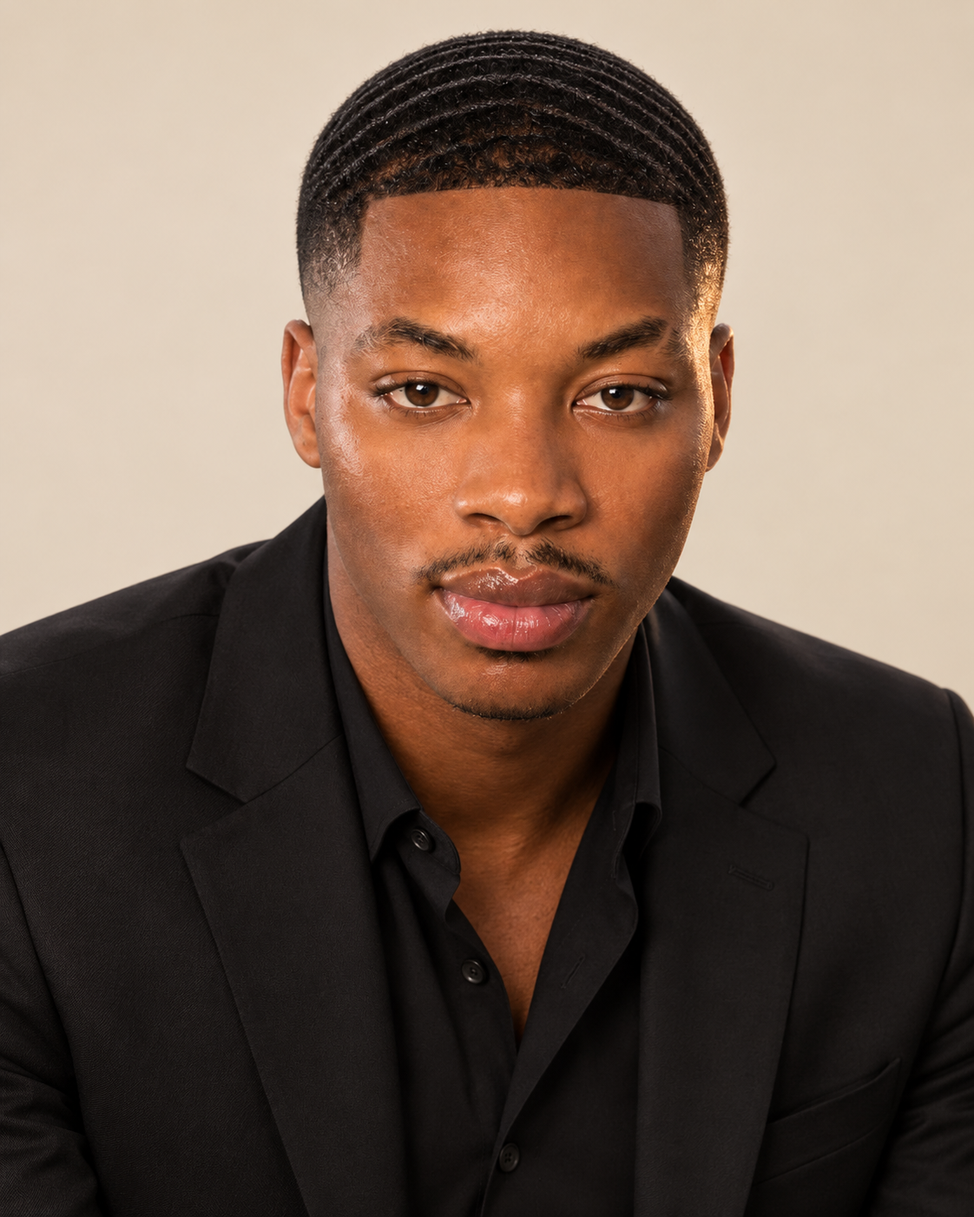
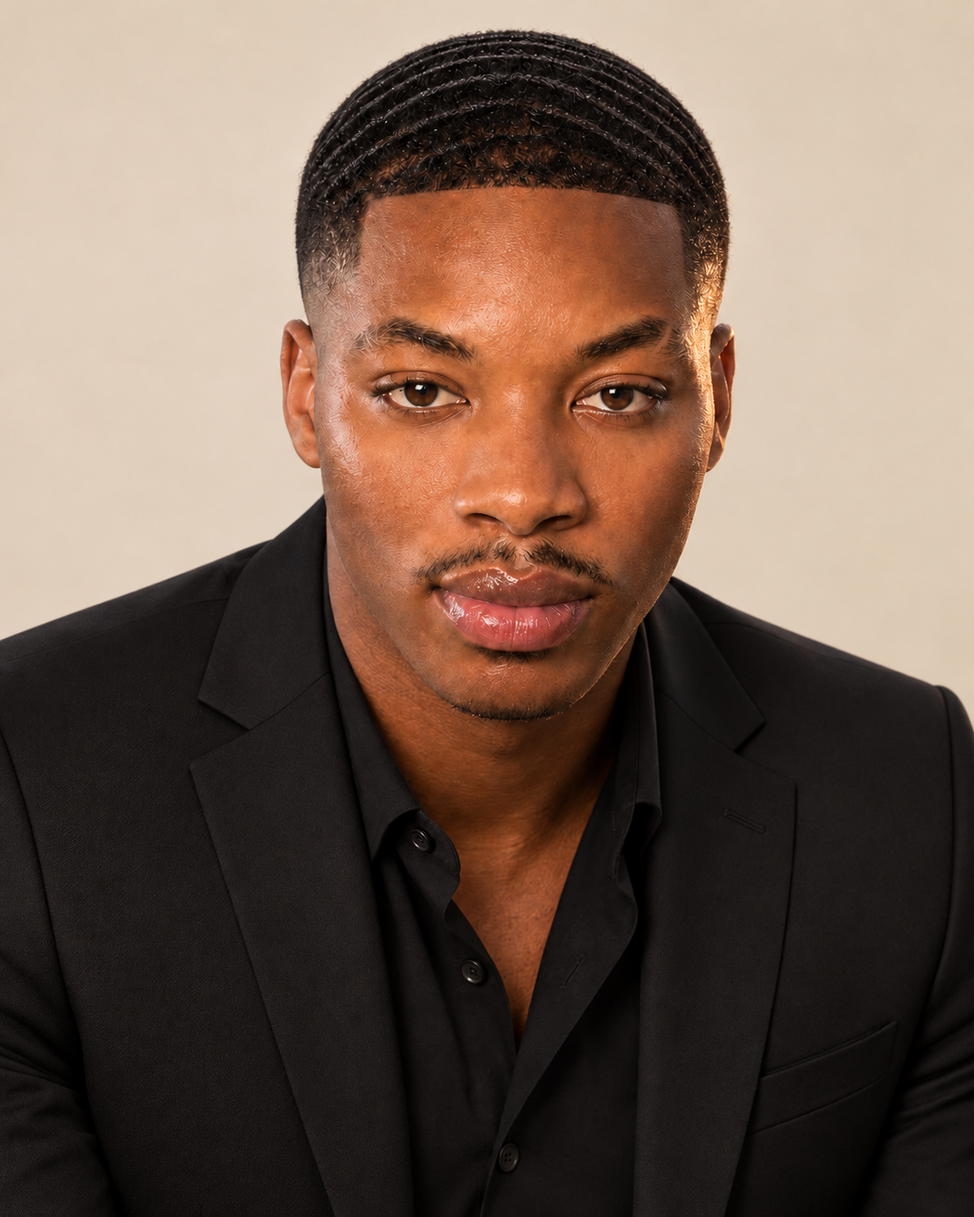
Refine founder portrait with tailored black suit

diff --git a/about.html b/about.html
@@ -1,1 +1,1 @@
-<!doctype html><html lang="en"><head><meta charset="utf-8"><meta name="viewport" content="width=device-width,initial-scale=1"><title>Team and founder | DivineGuard IT Services</title><meta name="description" content="DivineGuard IT Services LLC. IT support, software development, AI workflows and technology training. North Las Vegas, Nevada."><meta name="theme-color" content="#701b2b"><link rel="stylesheet" href="css/style.css?v=20261028-help"><script defer src="js/main.js?v=20261028-creator"></script></head><body><a class="skip" href="#main">Skip to content</a><header><a class="brand" href="index.html"><svg viewBox="0 0 64 64" aria-hidden="true"><path d="M32 4 56 12v18c0 16-10 26-24 30C18 56 8 46 8 30V12Z" fill="#701b2b" stroke="#bd9650" stroke-width="3"/><path d="m22 32 7 7 14-15" fill="none" stroke="#f4d69a" stroke-width="4" stroke-linecap="round" stroke-linejoin="round"/></svg><span>DIVINEGUARD<small>IT SERVICES LLC</small></span></a><button class="nav-toggle" aria-expanded="false" aria-controls="nav">Menu</button><nav id="nav" class="nav-links" aria-label="Main"><a href="index.html" >Home</a><a href="services.html" >Services</a><a href="training.html">IT training</a><a href="creator-media.html">Creator media</a><a href="partners.html">Partners</a><a href="apps.html">Apps</a><a href="pricing.html">Pricing</a><a href="about.html" aria-current="page">Our team</a><a href="contact.html" >Contact</a><a href="nationwide.html">Nationwide &amp; government</a></nav><a class="button small" href="contact.html">Discuss a project ↗</a></header><main id="main"><section class="wrap page-intro"><span class="eyebrow">OUR TEAM</span><h1>People who connect<br><em>the details.</em></h1><p class="lead">DivineGuard IT Services LLC is a local North Las Vegas GovTech business focused on IT services, software and AI development, and education/training programs. We welcome business, local-government, state and federal opportunities aligned with our capabilities.</p></section><section class="wrap team-grid" aria-label="Meet the DivineGuard team"><article class="person" id="aaron"><div class="team-photo"><img src="images/aaron-frazier-black-suit-v2.png" alt="Aaron Frazier Jr." width="360" height="420" loading="lazy"></div><div class="team-card-content"><h2>Aaron Frazier Jr.</h2><p class="role">Founder &amp; Principal Software Engineer</p><p class="team-focus">Full Stack Development | AI Engineering | Cybersecurity</p><h3>Experience &amp; responsibilities</h3><p>Remote IT support, Microsoft 365 assistance, software and API projects, technical troubleshooting, documentation, testing and project coordination.</p><h3>Skills &amp; focus</h3><p>Python • JavaScript • Node.js • REST APIs • Cloud • Software Architecture • Cybersecurity • GovTech • Remote IT Support • Microsoft 365 • Troubleshooting • Technical Documentation • Project Coordination</p><h3>Education &amp; development</h3><p>Associate of Science with honors, Southern New Hampshire University (SNHU). Bachelor of Science studies at SNHU; completion with honors anticipated in 2027.</p><p>Google IT Support Certificate • Google Cybersecurity Certificate. Fullstack Academy Software Engineering and AI Developer certificates are in progress. Planned study: Master of Science in Computer Science at SNHU, beginning in 2028. Currently involved with the UNLV Cyber Clinic and Nevada Help Desk Academy.</p><a class="text-link" href="mailto:AaronFrazier@DGITServices.onmicrosoft.com">Email Aaron ↗</a></div></article><article class="person" id="cheyenne-card"><div class="team-photo"><img src="images/cheyenne-quann-profile.png?v=20261031" alt="Cheyenne Quann" width="360" height="450" loading="lazy"></div><div class="team-card-content"><h2>Cheyenne Quann</h2><p class="role">Business Analyst</p><p class="team-focus">Business analysis | IT operations | Reporting</p><h3>Experience &amp; responsibilities</h3><p>More than four years in IT support and systems operations across healthcare, data centers and business services.</p><h3>Skills &amp; focus</h3><p>SQL • Tableau • Power BI • Excel • Salesforce reporting • Active Directory • Azure AD • Intune</p><h3>Education &amp; development</h3><p>BA in Political Science, UC Santa Barbara; Business Intelligence Analytics Certificate, TripleTen; Full-Stack Data Science Certificate, Coding Dojo.</p><a class="text-link" href="mailto:Cheyenne.Quann@DGITServices.onmicrosoft.com">Email Cheyenne ↗</a></div></article><article class="person" id="marcetta"><div class="team-photo"><img src="images/marcetta-frazier.png" alt="Professional portrait of Marcetta Frazier" width="1086" height="1448" loading="lazy"></div><div class="team-card-content"><h2>Marcetta Frazier</h2><p class="role">Program &amp; Logistics Manager</p><p class="team-focus">Logistics leadership | Program management | Operational coordination | Team development</p><h3>Professional profile</h3><p>Marcetta is a business owner and logistics professional with more than 20 years of entrepreneurial and operational experience, including independent FedEx route ownership and leadership experience with Amazon. At DivineGuard, she leads logistics and program coordination—organizing schedules and resources, facilitating team communication, tracking milestones, and supporting accountable, timely follow-through.</p><h3>Core competencies</h3><p>Business ownership and operations • Logistics and distribution • Program coordination • Team leadership • Workforce scheduling • Resource planning • Documentation and reporting • Milestone tracking • Operational efficiency • Strategic follow-through</p><a class="button small" href="contact.html?service=logistics">Discuss program coordination ↗</a><a class="text-link" href="mailto:MarcettaFrazier@DGITServices.onmicrosoft.com">Email Marcetta ↗</a></div></article><article class="person" id="kyra-card"><div class="team-photo"><img src="images/kyra-frazier-beige.png" alt="Kyra Frazier" width="360" height="420" loading="lazy"></div><div class="team-card-content"><h2>Kyra Frazier</h2><p class="role">Administrative Coordinator</p><p class="team-focus">Administration | Client care | Customer service</p><h3>Experience &amp; responsibilities</h3><p>Several years of medical client-care and customer-service experience, supporting organized and respectful service.</p><h3>Skills &amp; focus</h3><p>Scheduling • Client communication • Documentation • Customer service • Phlebotomy</p><h3>Education &amp; development</h3><p>Certified Nursing Assistant (CNA) credential; background in phlebotomy.</p><a class="text-link" href="#kyra">Read Kyra’s background →</a></div></article></section><section class="wrap section profile-detail" id="founder"><div class="split"><div><span class="eyebrow">FOUNDER PROFILE</span><h2>Aaron Frazier Jr.</h2><p class="role">Founder &amp; Principal Software Engineer</p><div class="profile-photo"><img src="images/aaron-frazier-black-suit-v2.png" alt="Aaron Frazier Jr." width="540" height="640" loading="lazy"></div></div><div class="bio"><h3>Turning needs into useful software</h3><p>Aaron founded DivineGuard IT Services LLC to connect IT support, software development, AI engineering and cybersecurity. He leads technical direction from the first requirements conversation through implementation, testing and handoff—keeping the work grounded in the people and operations it serves.</p><h3>Engineering with clear responsibilities</h3><p>His focus spans full stack development, Python, JavaScript, Node.js, REST APIs, cloud services and software architecture. GovCon Pulse and Gray Fox AI are current development initiatives. He brings IT consulting, enterprise support and deployment experience to decisions about reliability, access, documentation and delivery scope.</p><h3>Remote support and service coordination</h3><p>Aaron’s service focus includes remote IT troubleshooting, Microsoft 365 assistance, ticket and escalation coordination, technical documentation and user support. For projects involving software vendors and onsite specialists, he works to define responsibilities, coordinate handoffs and keep clients informed. Support hours, staffing and response commitments are agreed for each engagement.</p><h3>Education and professional development</h3><p>Aaron earned an Associate of Science with honors from Southern New Hampshire University (SNHU) and is continuing Bachelor of Science studies there, with completion with honors anticipated in 2027.</p><p>His credentials include the Google IT Support Certificate and Google Cybersecurity Certificate. His Fullstack Academy Software Engineering and AI Developer certificates are in progress. He plans to begin a Master of Science in Computer Science at SNHU in 2028. He is currently involved with the UNLV Cyber Clinic and Nevada Help Desk Academy.</p><h3>Academic recognition</h3><p>Seven Honor Roll recognitions, two Dean’s List recognitions and one President’s List recognition.</p><h3>Leadership, learning and community</h3><p>Aaron served as vice president of Batteries Included at Legacy High School for two years.</p><p>Aaron coordinates priorities, works with specialist providers and makes responsibilities clear. His continued learning includes cybersecurity study at SNHU and participation and training with the UNLV Cyber Clinic. He also serves as an NSLS committee chair. Faith and more than 22 years in his church community shape his approach to service, relationships and accountability.</p><a class="text-link" href="experience.html">Career and project overview →</a></div></div></section><section class="wrap section profile-detail" id="cheyenne"><div class="split"><div><span class="eyebrow">BUSINESS ANALYST PROFILE</span><h2>Cheyenne Quann</h2><p class="role">Business Analyst</p><div class="profile-photo"><img src="images/cheyenne-quann-beige.png" alt="Cheyenne Quann, Business Analyst" width="540" height="640" loading="lazy"></div></div><div class="bio"><p>Cheyenne is an IT and business operations professional with more than four years of experience in IT support and systems operations across healthcare, data centers, technology and business services. His work connects operational data, access management and end-user support with practical business insights.</p><h3>Experience</h3><p>At Anderson Business Advisors, Cheyenne served as an Operations &amp; Access Control Coordinator in 2025–2026, supporting access analysis, data quality reviews, Salesforce queue monitoring, reporting and process improvement. His IT Support Technician role at Switch in 2025–2026 included Active Directory and Azure AD, Microsoft Intune, endpoint management and network troubleshooting.</p><p>From 2023–2025, his Desktop Support / TechOps Monitor work at Oak Street Health included systems and database monitoring, incident trend analysis, operations reporting, remote support and escalation. Additional roles include Robotics Field Specialist at Phantom Auto, Operations Support Technician at Coin Cloud Inc., and Desktop Support Analyst at Robert Half International.</p><h3>Skills</h3><p>Business intelligence and data analytics; SQL; Tableau and Power BI; Excel and Google Sheets; data validation; Salesforce reporting support; Active Directory and Azure AD; Intune; IT operations; workflow optimization; incident monitoring; and TCP/IP, DNS, DHCP and SSH troubleshooting.</p><h3>Education</h3><p>Bachelor of Arts in Political Science, University of California, Santa Barbara. Business Intelligence Analytics Certificate, TripleTen, with focus areas in Excel, Tableau, Power BI and SQL. Full-Stack Data Science Certificate, Coding Dojo, with focus areas in Python and SQL.</p></div></div></section><section class="wrap section profile-detail" id="marcetta-profile"><div class="split"><div><span class="eyebrow">PROGRAM &amp; LOGISTICS PROFILE</span><h2>Marcetta Frazier</h2><p class="role">Program &amp; Logistics Manager</p><div class="profile-photo"><img src="images/marcetta-frazier.png" alt="Professional portrait of Marcetta Frazier" width="1086" height="1448" loading="lazy"></div></div><div class="bio"><h3>Logistics leadership at DivineGuard</h3><p>Marcetta oversees DivineGuard’s logistics and program coordination. She leads the coordination of schedules, resources, team communication and follow-through, keeping delivery needs and program milestones organized.</p><h3>Business ownership and operations background</h3><p>Marcetta brings more than 20 years running her own business, including FedEx route ownership and Amazon leadership experience. Her background informs her practical approach to logistics, business operations, team leadership and day-to-day coordination.</p><h3>Program and delivery coordination</h3><p>Her responsibilities include organizing timelines, coordinating resource needs and delivery windows, tracking milestones, maintaining documentation and communicating next steps across the people supporting each program. Staffing, transportation and third-party delivery commitments are confirmed for each engagement.</p><h3>Skills and focus</h3><p>Business ownership, logistics, team leadership, organized delivery and clear communication across the people supporting each program.</p><a class="button" href="contact.html?service=logistics">Discuss program coordination ↗</a></div></div></section><section class="wrap section profile-detail" id="kyra"><div class="split"><div><span class="eyebrow">ADMINISTRATIVE COORDINATOR PROFILE</span><h2>Kyra Frazier</h2><p class="role">Administrative Coordinator</p><div class="profile-photo"><img src="images/kyra-frazier-beige.png" alt="Professional portrait of Kyra Frazier" width="540" height="640" loading="lazy"></div></div><div><h3>Medical and customer-service background</h3><p>Kyra brings several years of experience in the medical field, helping care for clients across medical-center settings. Her background includes a Certified Nursing Assistant (CNA) credential, phlebotomy experience and years of customer-service work.</p><h3>Administrative role</h3><p>As DivineGuard’s Administrative Coordinator, Kyra’s role focuses on scheduling, client communication, documentation and day-to-day administrative organization. Her client-care background informs a people-focused approach to supporting clients and coordinating follow-up.</p><h3>Approach to the work</h3><p>Her focus at DivineGuard is clear communication, respectful service and organized follow-through, helping clients understand next steps and keeping administrative details moving.</p></div></div></section><section class="wrap section split"><div><span class="eyebrow">BEYOND THE BUSINESS</span><h2>Technology.<br>Creativity. Community.</h2></div><div><h3>Access Granted</h3><p>Aaron’s technology channel brings his interest in software, AI, cybersecurity and product exploration into a creator setting.</p><a class="text-link" href="https://www.youtube.com/@AccessGranted-26" target="_blank" rel="noopener noreferrer">Visit Access Granted ↗</a><h3 style="margin-top:35px">Checkpoint Gaming</h3><p>Aaron’s second main YouTube channel centers on gaming and his creative interests beyond his work at DivineGuard.</p><a class="text-link" href="https://www.youtube.com/@checkpoint-e3" target="_blank" rel="noopener noreferrer">Visit Checkpoint Gaming ↗</a></div></section><section class="wrap section split"><div><span class="eyebrow">WHAT GUIDES US</span><h2>Useful work.<br>Honest expectations.</h2></div><div><h3>Document the work</h3><p>Keep requirements, decisions, test results and handoffs understandable.</p><h3>Respect the boundaries</h3><p>Use authorized access and connect specialist work to qualified people.</p><h3>Keep learning</h3><p>Translate lessons from real projects into clearer processes and practical instruction.</p></div></section><section class="cta wrap"><span class="eyebrow">LET’S DEFINE THE NEXT STEP</span><h2>Bring us the problem.<br>We’ll work through the scope.</h2><a class="button" href="contact.html">Tell us what you need ↗</a></section><section class="wrap section" id="networks"><span class="eyebrow">NETWORKS &amp; PROCUREMENT CONNECTIONS</span><h2>Connected through<br>learning and opportunity.</h2><div class="split"><div><h3>Community and advisory connections</h3><p>Aaron participates in membership and training at the UNLV Cyber Clinic. DivineGuard has an advisory contact with Nevada APEX and workforce connections involving EmployNV, with discussions involving CSN, City of Las Vegas and Westside Education and Training Center initiatives.</p><p>Program roles, formal agreements and delivery commitments are confirmed individually. These connections do not imply institutional endorsement.</p></div><div><h3>Procurement access</h3><p>DivineGuard reports NGEM supplier registration; Nevada higher-education supplier registration is under review. Registration supports opportunity access and notifications; eligibility is assessed for each pursuit.</p><p><a href="https://www.ngemnv.com/" target="_blank" rel="noopener noreferrer">NGEM ↗</a> · <a href="https://suppliers.nevada.edu/default.aspx" target="_blank" rel="noopener noreferrer">Nevada higher-education suppliers ↗</a></p><p>Specialist teaming arrangements are developed for each requirement. No blanket partnership with all Nevada colleges or all government procurement systems is claimed.</p></div></div></section></main><footer><div class="footer-top"><div><a class="brand" href="index.html"><svg viewBox="0 0 64 64" aria-hidden="true"><path d="M32 4 56 12v18c0 16-10 26-24 30C18 56 8 46 8 30V12Z" fill="#701b2b" stroke="#bd9650" stroke-width="3"/><path d="m22 32 7 7 14-15" fill="none" stroke="#f4d69a" stroke-width="4" stroke-linecap="round" stroke-linejoin="round"/></svg><span>DIVINEGUARD<small>IT SERVICES LLC</small></span></a><p>Practical technology. Clear responsibilities.<br>North Las Vegas, Nevada.</p></div><div><h3>Explore</h3><a href="creator-media.html">YouTube, TikTok &amp; creator media</a><a href="media-booking.html">Podcast bookings &amp; collaborations</a><a href="program-coordination.html">Program &amp; logistics coordination</a><a href="business-ai.html">Business AI service</a><a href="faq.html">Frequently asked questions</a><a href="privacy.html">Privacy notice</a><a href="community.html">Local partnerships &amp; sponsors</a><a href="training-media.html">Training &amp; media</a><a href="nationwide.html">Nationwide &amp; government</a><a href="subcontractors.html">Subcontractor interest</a><a href="experience.html">Experience &amp; projects</a><a href="reviews.html">Customer reviews</a><a href="index.html" >Home</a><a href="services.html" >Services</a><a href="apps.html">Apps</a><a href="pricing.html">Pricing</a><a href="about.html" aria-current="page">Our team</a><a href="contact.html" >Contact</a></div><div><h3>Start a conversation</h3><a href="mailto:AaronFrazier@DGITServices.onmicrosoft.com">Email DivineGuard ↗</a><a href="tel:+17253248779">725-324-8779</a><a href="capability-statement.docx">Download capability statement ↓</a></div></div><div class="footer-bottom">© <span id="year">2026</span> DivineGuard IT Services LLC <span>IT • SOFTWARE • AI • EDUCATION</span></div></footer></body></html>
+<!doctype html><html lang="en"><head><meta charset="utf-8"><meta name="viewport" content="width=device-width,initial-scale=1"><title>Team and founder | DivineGuard IT Services</title><meta name="description" content="DivineGuard IT Services LLC. IT support, software development, AI workflows and technology training. North Las Vegas, Nevada."><meta name="theme-color" content="#701b2b"><link rel="stylesheet" href="css/style.css?v=20261028-help"><script defer src="js/main.js?v=20261028-creator"></script></head><body><a class="skip" href="#main">Skip to content</a><header><a class="brand" href="index.html"><svg viewBox="0 0 64 64" aria-hidden="true"><path d="M32 4 56 12v18c0 16-10 26-24 30C18 56 8 46 8 30V12Z" fill="#701b2b" stroke="#bd9650" stroke-width="3"/><path d="m22 32 7 7 14-15" fill="none" stroke="#f4d69a" stroke-width="4" stroke-linecap="round" stroke-linejoin="round"/></svg><span>DIVINEGUARD<small>IT SERVICES LLC</small></span></a><button class="nav-toggle" aria-expanded="false" aria-controls="nav">Menu</button><nav id="nav" class="nav-links" aria-label="Main"><a href="index.html" >Home</a><a href="services.html" >Services</a><a href="training.html">IT training</a><a href="creator-media.html">Creator media</a><a href="partners.html">Partners</a><a href="apps.html">Apps</a><a href="pricing.html">Pricing</a><a href="about.html" aria-current="page">Our team</a><a href="contact.html" >Contact</a><a href="nationwide.html">Nationwide &amp; government</a></nav><a class="button small" href="contact.html">Discuss a project ↗</a></header><main id="main"><section class="wrap page-intro"><span class="eyebrow">OUR TEAM</span><h1>People who connect<br><em>the details.</em></h1><p class="lead">DivineGuard IT Services LLC is a local North Las Vegas GovTech business focused on IT services, software and AI development, and education/training programs. We welcome business, local-government, state and federal opportunities aligned with our capabilities.</p></section><section class="wrap team-grid" aria-label="Meet the DivineGuard team"><article class="person" id="aaron"><div class="team-photo"><img src="images/aaron-frazier-black-suit-v2.png?v=20261031-tailored" alt="Aaron Frazier Jr." width="360" height="420" loading="lazy"></div><div class="team-card-content"><h2>Aaron Frazier Jr.</h2><p class="role">Founder &amp; Principal Software Engineer</p><p class="team-focus">Full Stack Development | AI Engineering | Cybersecurity</p><h3>Experience &amp; responsibilities</h3><p>Remote IT support, Microsoft 365 assistance, software and API projects, technical troubleshooting, documentation, testing and project coordination.</p><h3>Skills &amp; focus</h3><p>Python • JavaScript • Node.js • REST APIs • Cloud • Software Architecture • Cybersecurity • GovTech • Remote IT Support • Microsoft 365 • Troubleshooting • Technical Documentation • Project Coordination</p><h3>Education &amp; development</h3><p>Associate of Science with honors, Southern New Hampshire University (SNHU). Bachelor of Science studies at SNHU; completion with honors anticipated in 2027.</p><p>Google IT Support Certificate • Google Cybersecurity Certificate. Fullstack Academy Software Engineering and AI Developer certificates are in progress. Planned study: Master of Science in Computer Science at SNHU, beginning in 2028. Currently involved with the UNLV Cyber Clinic and Nevada Help Desk Academy.</p><a class="text-link" href="mailto:AaronFrazier@DGITServices.onmicrosoft.com">Email Aaron ↗</a></div></article><article class="person" id="cheyenne-card"><div class="team-photo"><img src="images/cheyenne-quann-profile.png?v=20261031" alt="Cheyenne Quann" width="360" height="450" loading="lazy"></div><div class="team-card-content"><h2>Cheyenne Quann</h2><p class="role">Business Analyst</p><p class="team-focus">Business analysis | IT operations | Reporting</p><h3>Experience &amp; responsibilities</h3><p>More than four years in IT support and systems operations across healthcare, data centers and business services.</p><h3>Skills &amp; focus</h3><p>SQL • Tableau • Power BI • Excel • Salesforce reporting • Active Directory • Azure AD • Intune</p><h3>Education &amp; development</h3><p>BA in Political Science, UC Santa Barbara; Business Intelligence Analytics Certificate, TripleTen; Full-Stack Data Science Certificate, Coding Dojo.</p><a class="text-link" href="mailto:Cheyenne.Quann@DGITServices.onmicrosoft.com">Email Cheyenne ↗</a></div></article><article class="person" id="marcetta"><div class="team-photo"><img src="images/marcetta-frazier.png" alt="Professional portrait of Marcetta Frazier" width="1086" height="1448" loading="lazy"></div><div class="team-card-content"><h2>Marcetta Frazier</h2><p class="role">Program &amp; Logistics Manager</p><p class="team-focus">Logistics leadership | Program management | Operational coordination | Team development</p><h3>Professional profile</h3><p>Marcetta is a business owner and logistics professional with more than 20 years of entrepreneurial and operational experience, including independent FedEx route ownership and leadership experience with Amazon. At DivineGuard, she leads logistics and program coordination—organizing schedules and resources, facilitating team communication, tracking milestones, and supporting accountable, timely follow-through.</p><h3>Core competencies</h3><p>Business ownership and operations • Logistics and distribution • Program coordination • Team leadership • Workforce scheduling • Resource planning • Documentation and reporting • Milestone tracking • Operational efficiency • Strategic follow-through</p><a class="button small" href="contact.html?service=logistics">Discuss program coordination ↗</a><a class="text-link" href="mailto:MarcettaFrazier@DGITServices.onmicrosoft.com">Email Marcetta ↗</a></div></article><article class="person" id="kyra-card"><div class="team-photo"><img src="images/kyra-frazier-beige.png" alt="Kyra Frazier" width="360" height="420" loading="lazy"></div><div class="team-card-content"><h2>Kyra Frazier</h2><p class="role">Administrative Coordinator</p><p class="team-focus">Administration | Client care | Customer service</p><h3>Experience &amp; responsibilities</h3><p>Several years of medical client-care and customer-service experience, supporting organized and respectful service.</p><h3>Skills &amp; focus</h3><p>Scheduling • Client communication • Documentation • Customer service • Phlebotomy</p><h3>Education &amp; development</h3><p>Certified Nursing Assistant (CNA) credential; background in phlebotomy.</p><a class="text-link" href="#kyra">Read Kyra’s background →</a></div></article></section><section class="wrap section profile-detail" id="founder"><div class="split"><div><span class="eyebrow">FOUNDER PROFILE</span><h2>Aaron Frazier Jr.</h2><p class="role">Founder &amp; Principal Software Engineer</p><div class="profile-photo"><img src="images/aaron-frazier-black-suit-v2.png?v=20261031-tailored" alt="Aaron Frazier Jr." width="540" height="640" loading="lazy"></div></div><div class="bio"><h3>Turning needs into useful software</h3><p>Aaron founded DivineGuard IT Services LLC to connect IT support, software development, AI engineering and cybersecurity. He leads technical direction from the first requirements conversation through implementation, testing and handoff—keeping the work grounded in the people and operations it serves.</p><h3>Engineering with clear responsibilities</h3><p>His focus spans full stack development, Python, JavaScript, Node.js, REST APIs, cloud services and software architecture. GovCon Pulse and Gray Fox AI are current development initiatives. He brings IT consulting, enterprise support and deployment experience to decisions about reliability, access, documentation and delivery scope.</p><h3>Remote support and service coordination</h3><p>Aaron’s service focus includes remote IT troubleshooting, Microsoft 365 assistance, ticket and escalation coordination, technical documentation and user support. For projects involving software vendors and onsite specialists, he works to define responsibilities, coordinate handoffs and keep clients informed. Support hours, staffing and response commitments are agreed for each engagement.</p><h3>Education and professional development</h3><p>Aaron earned an Associate of Science with honors from Southern New Hampshire University (SNHU) and is continuing Bachelor of Science studies there, with completion with honors anticipated in 2027.</p><p>His credentials include the Google IT Support Certificate and Google Cybersecurity Certificate. His Fullstack Academy Software Engineering and AI Developer certificates are in progress. He plans to begin a Master of Science in Computer Science at SNHU in 2028. He is currently involved with the UNLV Cyber Clinic and Nevada Help Desk Academy.</p><h3>Academic recognition</h3><p>Seven Honor Roll recognitions, two Dean’s List recognitions and one President’s List recognition.</p><h3>Leadership, learning and community</h3><p>Aaron served as vice president of Batteries Included at Legacy High School for two years.</p><p>Aaron coordinates priorities, works with specialist providers and makes responsibilities clear. His continued learning includes cybersecurity study at SNHU and participation and training with the UNLV Cyber Clinic. He also serves as an NSLS committee chair. Faith and more than 22 years in his church community shape his approach to service, relationships and accountability.</p><a class="text-link" href="experience.html">Career and project overview →</a></div></div></section><section class="wrap section profile-detail" id="cheyenne"><div class="split"><div><span class="eyebrow">BUSINESS ANALYST PROFILE</span><h2>Cheyenne Quann</h2><p class="role">Business Analyst</p><div class="profile-photo"><img src="images/cheyenne-quann-beige.png" alt="Cheyenne Quann, Business Analyst" width="540" height="640" loading="lazy"></div></div><div class="bio"><p>Cheyenne is an IT and business operations professional with more than four years of experience in IT support and systems operations across healthcare, data centers, technology and business services. His work connects operational data, access management and end-user support with practical business insights.</p><h3>Experience</h3><p>At Anderson Business Advisors, Cheyenne served as an Operations &amp; Access Control Coordinator in 2025–2026, supporting access analysis, data quality reviews, Salesforce queue monitoring, reporting and process improvement. His IT Support Technician role at Switch in 2025–2026 included Active Directory and Azure AD, Microsoft Intune, endpoint management and network troubleshooting.</p><p>From 2023–2025, his Desktop Support / TechOps Monitor work at Oak Street Health included systems and database monitoring, incident trend analysis, operations reporting, remote support and escalation. Additional roles include Robotics Field Specialist at Phantom Auto, Operations Support Technician at Coin Cloud Inc., and Desktop Support Analyst at Robert Half International.</p><h3>Skills</h3><p>Business intelligence and data analytics; SQL; Tableau and Power BI; Excel and Google Sheets; data validation; Salesforce reporting support; Active Directory and Azure AD; Intune; IT operations; workflow optimization; incident monitoring; and TCP/IP, DNS, DHCP and SSH troubleshooting.</p><h3>Education</h3><p>Bachelor of Arts in Political Science, University of California, Santa Barbara. Business Intelligence Analytics Certificate, TripleTen, with focus areas in Excel, Tableau, Power BI and SQL. Full-Stack Data Science Certificate, Coding Dojo, with focus areas in Python and SQL.</p></div></div></section><section class="wrap section profile-detail" id="marcetta-profile"><div class="split"><div><span class="eyebrow">PROGRAM &amp; LOGISTICS PROFILE</span><h2>Marcetta Frazier</h2><p class="role">Program &amp; Logistics Manager</p><div class="profile-photo"><img src="images/marcetta-frazier.png" alt="Professional portrait of Marcetta Frazier" width="1086" height="1448" loading="lazy"></div></div><div class="bio"><h3>Logistics leadership at DivineGuard</h3><p>Marcetta oversees DivineGuard’s logistics and program coordination. She leads the coordination of schedules, resources, team communication and follow-through, keeping delivery needs and program milestones organized.</p><h3>Business ownership and operations background</h3><p>Marcetta brings more than 20 years running her own business, including FedEx route ownership and Amazon leadership experience. Her background informs her practical approach to logistics, business operations, team leadership and day-to-day coordination.</p><h3>Program and delivery coordination</h3><p>Her responsibilities include organizing timelines, coordinating resource needs and delivery windows, tracking milestones, maintaining documentation and communicating next steps across the people supporting each program. Staffing, transportation and third-party delivery commitments are confirmed for each engagement.</p><h3>Skills and focus</h3><p>Business ownership, logistics, team leadership, organized delivery and clear communication across the people supporting each program.</p><a class="button" href="contact.html?service=logistics">Discuss program coordination ↗</a></div></div></section><section class="wrap section profile-detail" id="kyra"><div class="split"><div><span class="eyebrow">ADMINISTRATIVE COORDINATOR PROFILE</span><h2>Kyra Frazier</h2><p class="role">Administrative Coordinator</p><div class="profile-photo"><img src="images/kyra-frazier-beige.png" alt="Professional portrait of Kyra Frazier" width="540" height="640" loading="lazy"></div></div><div><h3>Medical and customer-service background</h3><p>Kyra brings several years of experience in the medical field, helping care for clients across medical-center settings. Her background includes a Certified Nursing Assistant (CNA) credential, phlebotomy experience and years of customer-service work.</p><h3>Administrative role</h3><p>As DivineGuard’s Administrative Coordinator, Kyra’s role focuses on scheduling, client communication, documentation and day-to-day administrative organization. Her client-care background informs a people-focused approach to supporting clients and coordinating follow-up.</p><h3>Approach to the work</h3><p>Her focus at DivineGuard is clear communication, respectful service and organized follow-through, helping clients understand next steps and keeping administrative details moving.</p></div></div></section><section class="wrap section split"><div><span class="eyebrow">BEYOND THE BUSINESS</span><h2>Technology.<br>Creativity. Community.</h2></div><div><h3>Access Granted</h3><p>Aaron’s technology channel brings his interest in software, AI, cybersecurity and product exploration into a creator setting.</p><a class="text-link" href="https://www.youtube.com/@AccessGranted-26" target="_blank" rel="noopener noreferrer">Visit Access Granted ↗</a><h3 style="margin-top:35px">Checkpoint Gaming</h3><p>Aaron’s second main YouTube channel centers on gaming and his creative interests beyond his work at DivineGuard.</p><a class="text-link" href="https://www.youtube.com/@checkpoint-e3" target="_blank" rel="noopener noreferrer">Visit Checkpoint Gaming ↗</a></div></section><section class="wrap section split"><div><span class="eyebrow">WHAT GUIDES US</span><h2>Useful work.<br>Honest expectations.</h2></div><div><h3>Document the work</h3><p>Keep requirements, decisions, test results and handoffs understandable.</p><h3>Respect the boundaries</h3><p>Use authorized access and connect specialist work to qualified people.</p><h3>Keep learning</h3><p>Translate lessons from real projects into clearer processes and practical instruction.</p></div></section><section class="cta wrap"><span class="eyebrow">LET’S DEFINE THE NEXT STEP</span><h2>Bring us the problem.<br>We’ll work through the scope.</h2><a class="button" href="contact.html">Tell us what you need ↗</a></section><section class="wrap section" id="networks"><span class="eyebrow">NETWORKS &amp; PROCUREMENT CONNECTIONS</span><h2>Connected through<br>learning and opportunity.</h2><div class="split"><div><h3>Community and advisory connections</h3><p>Aaron participates in membership and training at the UNLV Cyber Clinic. DivineGuard has an advisory contact with Nevada APEX and workforce connections involving EmployNV, with discussions involving CSN, City of Las Vegas and Westside Education and Training Center initiatives.</p><p>Program roles, formal agreements and delivery commitments are confirmed individually. These connections do not imply institutional endorsement.</p></div><div><h3>Procurement access</h3><p>DivineGuard reports NGEM supplier registration; Nevada higher-education supplier registration is under review. Registration supports opportunity access and notifications; eligibility is assessed for each pursuit.</p><p><a href="https://www.ngemnv.com/" target="_blank" rel="noopener noreferrer">NGEM ↗</a> · <a href="https://suppliers.nevada.edu/default.aspx" target="_blank" rel="noopener noreferrer">Nevada higher-education suppliers ↗</a></p><p>Specialist teaming arrangements are developed for each requirement. No blanket partnership with all Nevada colleges or all government procurement systems is claimed.</p></div></div></section></main><footer><div class="footer-top"><div><a class="brand" href="index.html"><svg viewBox="0 0 64 64" aria-hidden="true"><path d="M32 4 56 12v18c0 16-10 26-24 30C18 56 8 46 8 30V12Z" fill="#701b2b" stroke="#bd9650" stroke-width="3"/><path d="m22 32 7 7 14-15" fill="none" stroke="#f4d69a" stroke-width="4" stroke-linecap="round" stroke-linejoin="round"/></svg><span>DIVINEGUARD<small>IT SERVICES LLC</small></span></a><p>Practical technology. Clear responsibilities.<br>North Las Vegas, Nevada.</p></div><div><h3>Explore</h3><a href="creator-media.html">YouTube, TikTok &amp; creator media</a><a href="media-booking.html">Podcast bookings &amp; collaborations</a><a href="program-coordination.html">Program &amp; logistics coordination</a><a href="business-ai.html">Business AI service</a><a href="faq.html">Frequently asked questions</a><a href="privacy.html">Privacy notice</a><a href="community.html">Local partnerships &amp; sponsors</a><a href="training-media.html">Training &amp; media</a><a href="nationwide.html">Nationwide &amp; government</a><a href="subcontractors.html">Subcontractor interest</a><a href="experience.html">Experience &amp; projects</a><a href="reviews.html">Customer reviews</a><a href="index.html" >Home</a><a href="services.html" >Services</a><a href="apps.html">Apps</a><a href="pricing.html">Pricing</a><a href="about.html" aria-current="page">Our team</a><a href="contact.html" >Contact</a></div><div><h3>Start a conversation</h3><a href="mailto:AaronFrazier@DGITServices.onmicrosoft.com">Email DivineGuard ↗</a><a href="tel:+17253248779">725-324-8779</a><a href="capability-statement.docx">Download capability statement ↓</a></div></div><div class="footer-bottom">© <span id="year">2026</span> DivineGuard IT Services LLC <span>IT • SOFTWARE • AI • EDUCATION</span></div></footer></body></html>
